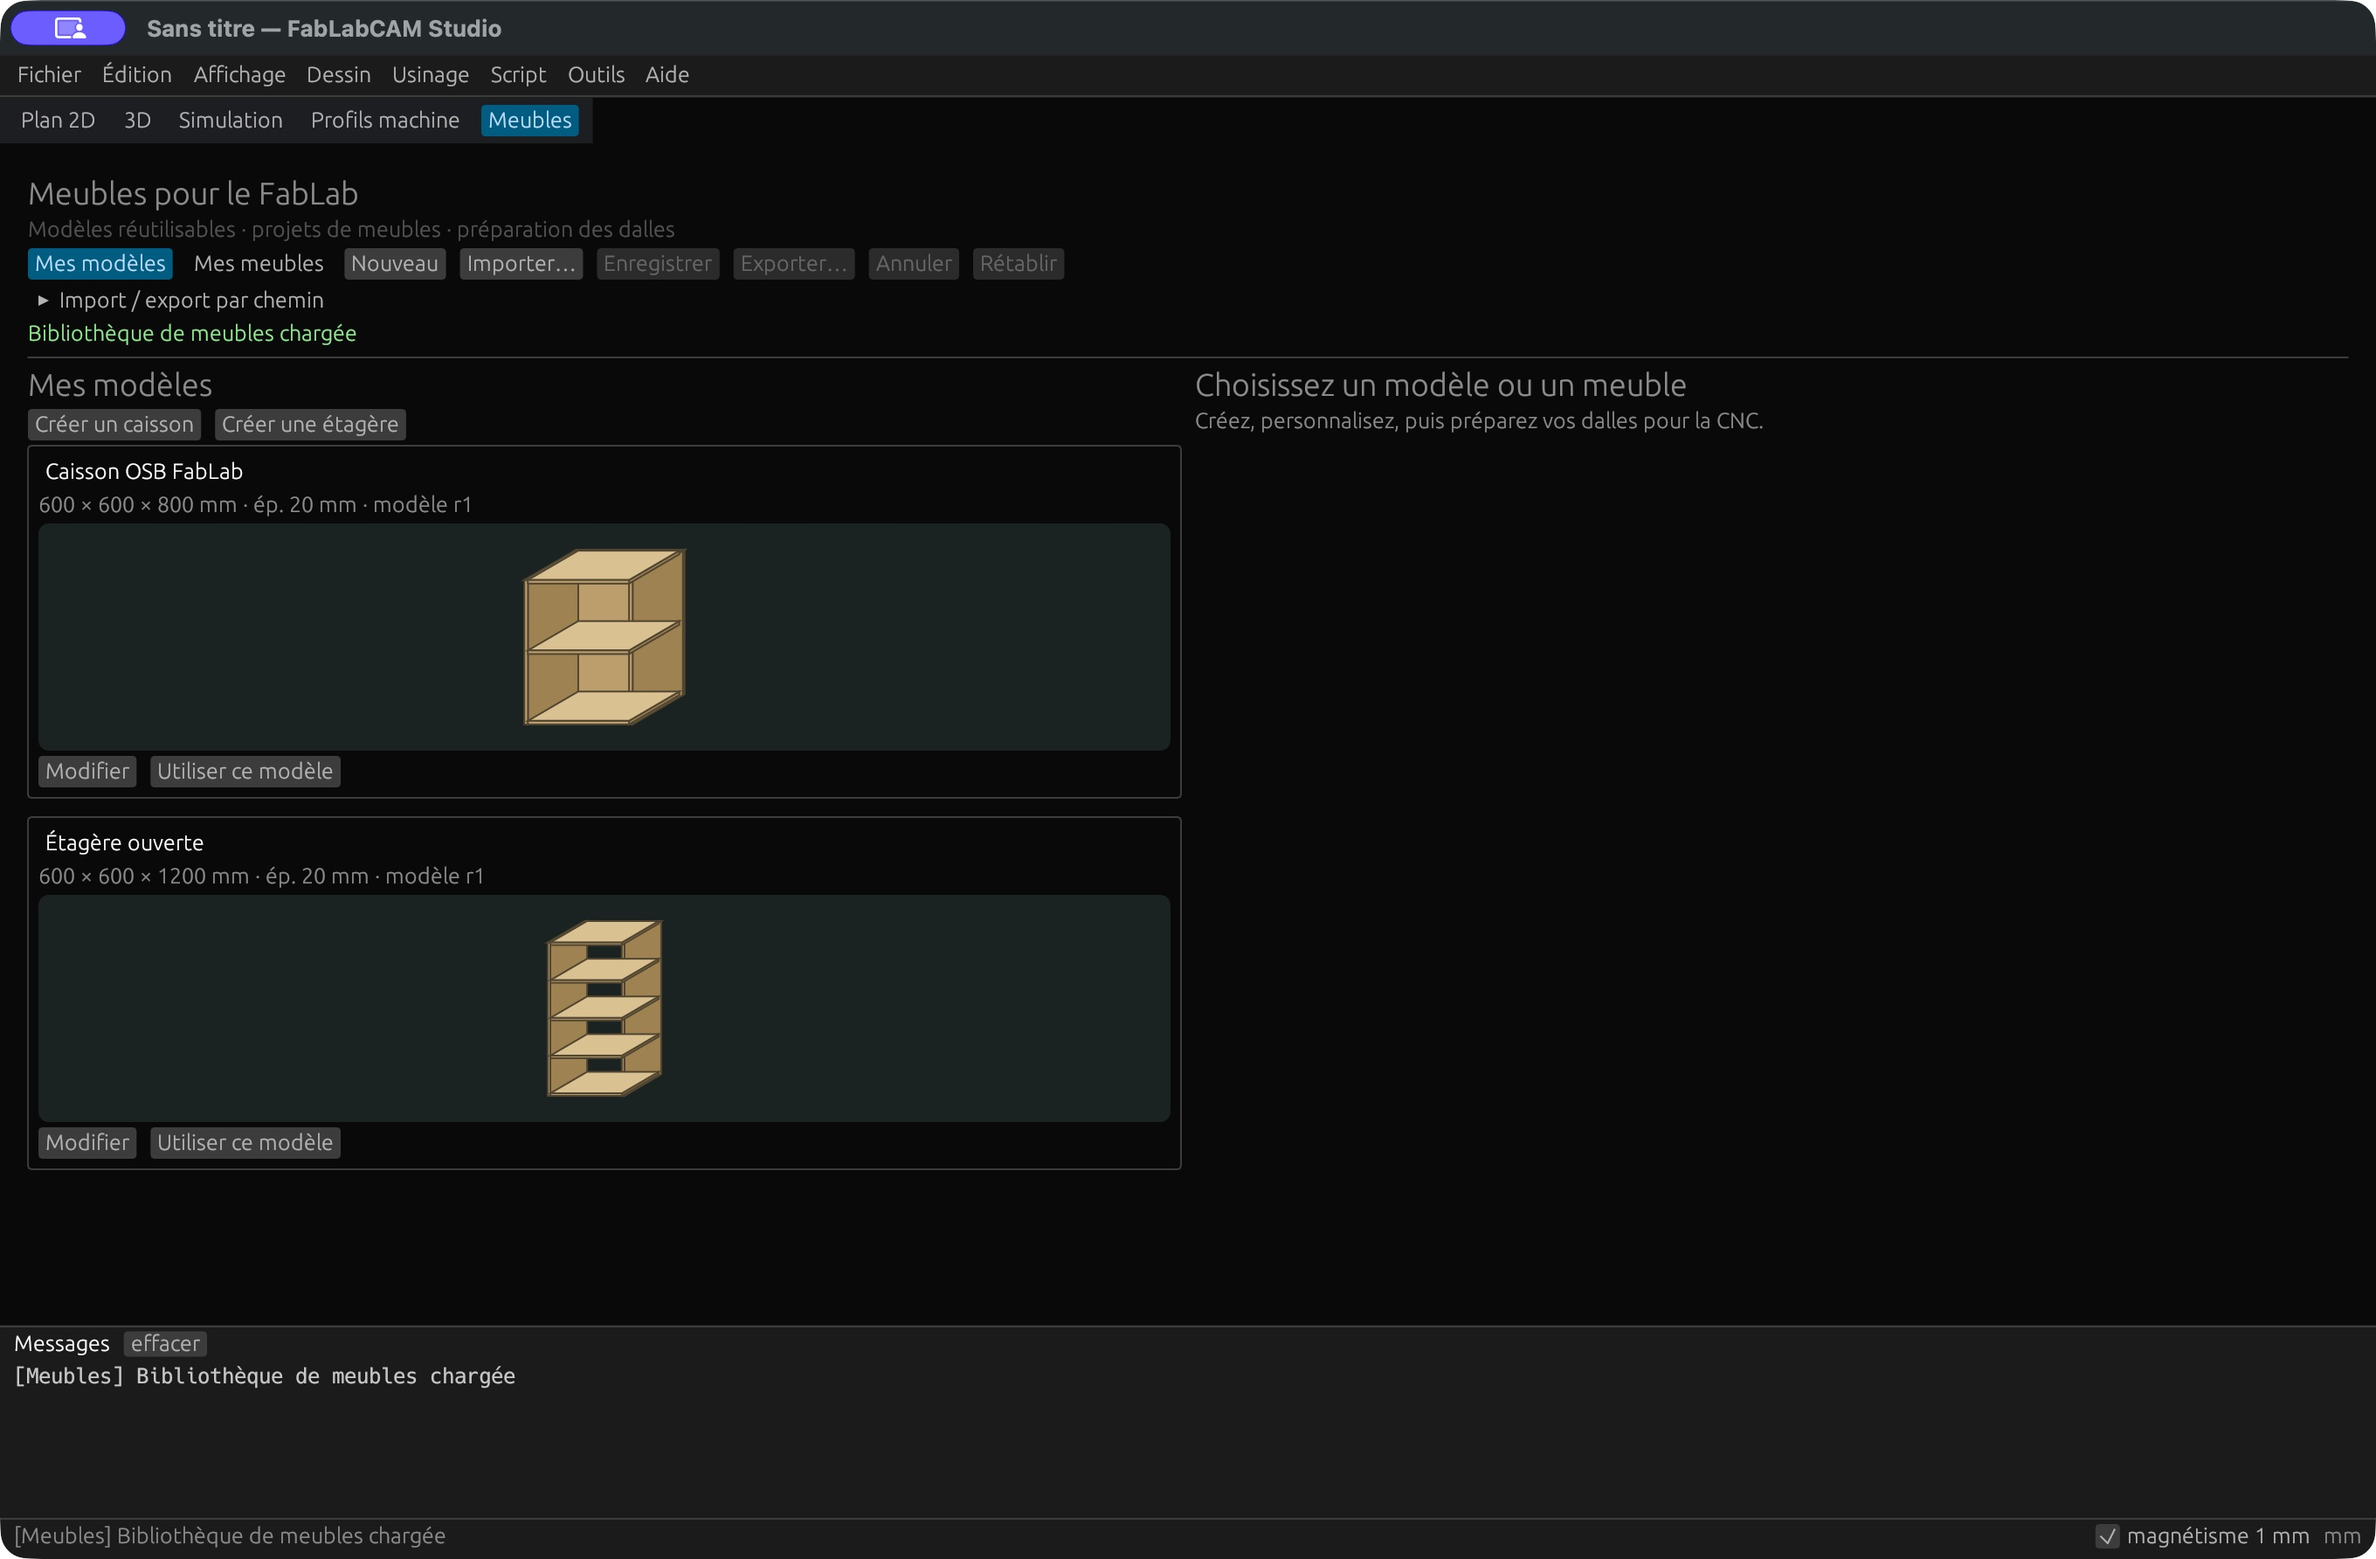
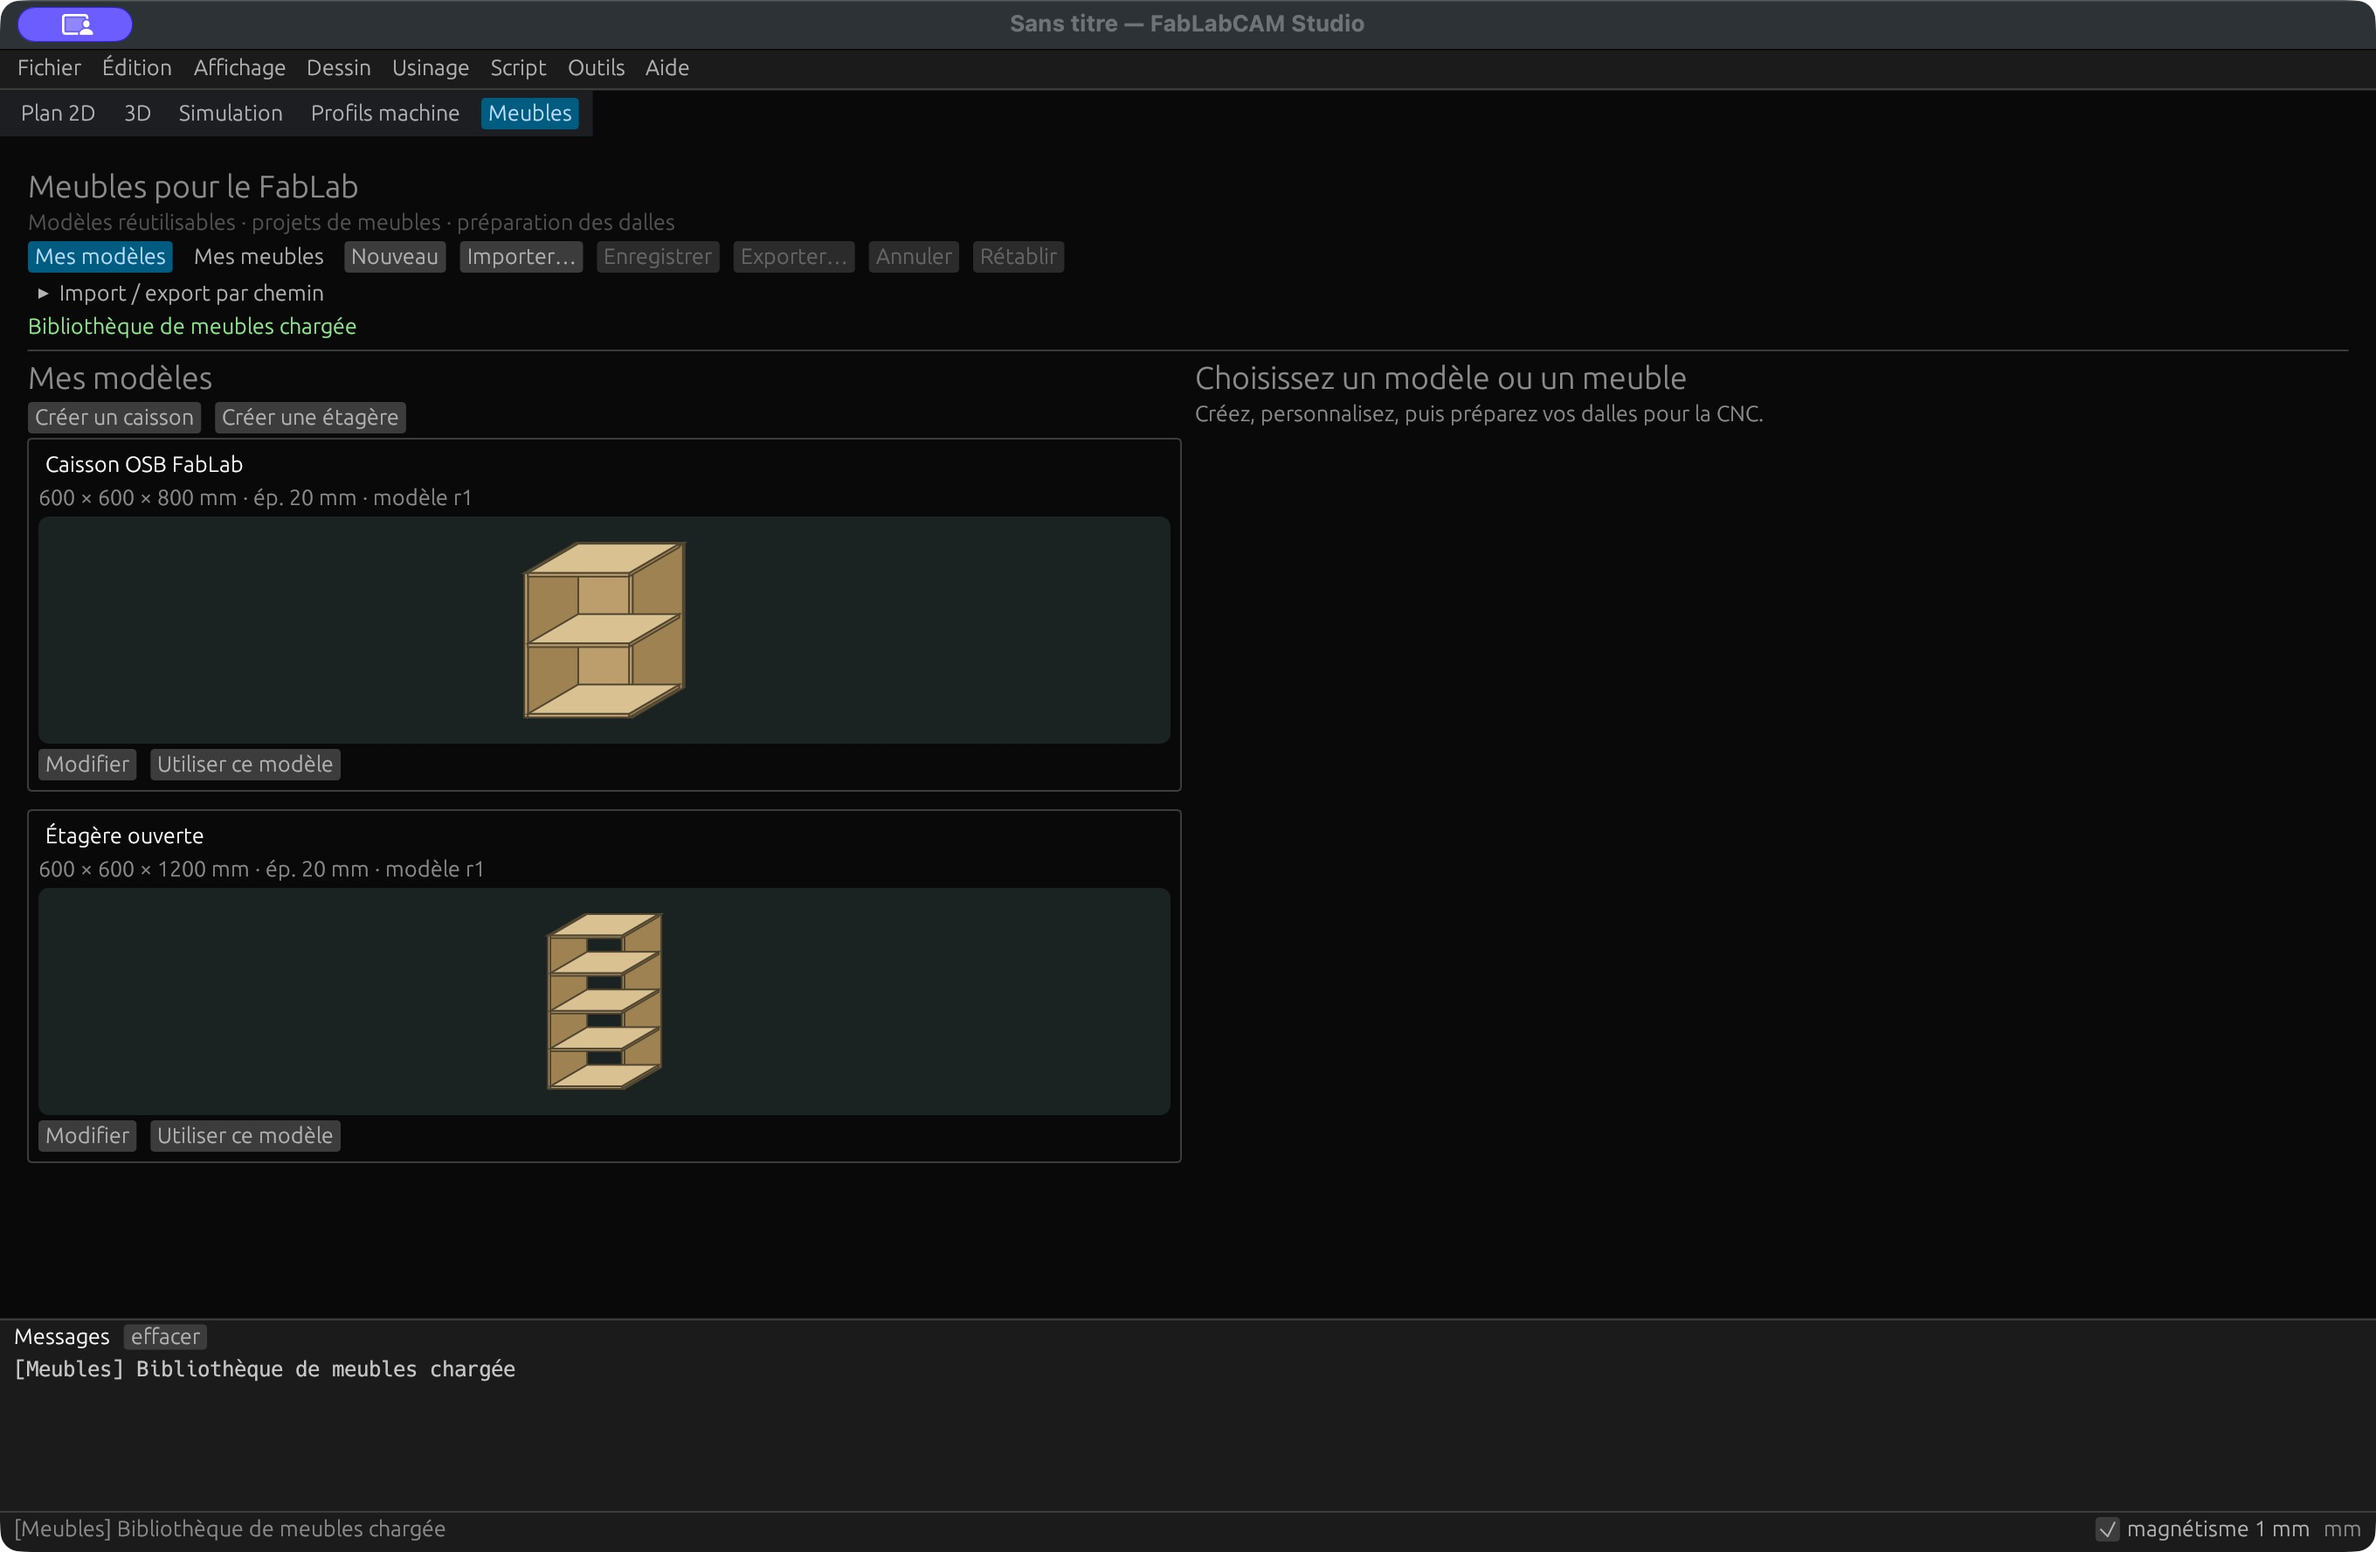
docs: refresh furniture screenshots from published DMG

diff --git a/docs/guide/meubles.md b/docs/guide/meubles.md
@@ -173,10 +173,11 @@ périmètre. Vis, avant-trous, ancrages, stabilité et charges admissibles ne so
 pas dimensionnés. Les projets natifs conservent les noms Unicode ; la notice
 PDF utilise des libellés fixes en français et des repères.
 
-Les captures 35 à 41 proviennent du build de développement du Studio **0.5.0
-sur macOS Apple Silicon**, avec un exemple synthétique. Les sources d'interface
-sont identiques à celles du tag livré. La CLI installée depuis le DMG final
-reproduit les quinze fichiers du dossier d'exemple octet pour octet. Les dialogues
-système peuvent différer selon l'OS.
+Les captures 35 à 41 proviennent du Studio **0.5.0 installé depuis le DMG
+macOS Apple Silicon publié**, avec un exemple synthétique. Le parcours graphique
+et la persistance après réouverture ont été vérifiés le 4 novembre 2026 dans une
+bibliothèque de test isolée. La CLI installée depuis ce DMG reproduit les quinze
+fichiers du dossier d'exemple octet pour octet. Les dialogues système peuvent
+différer selon l'OS.
 [Issue #14](https://github.com/FabLabCAM/core/issues/14) ·
 [Release 0.5.0](https://github.com/FabLabCAM/core/releases/tag/v0.5.0).

diff --git a/docs/reference/fonctionnalites.md b/docs/reference/fonctionnalites.md
@@ -54,8 +54,8 @@ Les captures 01 à 23 sont réalisées sur macOS Apple Silicon avec la version
 plateforme, avec des profils fictifs publics ; la capture 32 est recadrée sur le
 dialogue de doublon. Les captures 33 et 34 montrent le modèle ID CNC PRO dans
 le Studio 0.4.1 sur macOS Apple Silicon. Les captures 35 à 41 montrent le module
-Meubles du build de développement 0.5.0 sur la même plateforme (sources d’interface
-identiques au tag livré), avec le caisson synthétique
+Meubles du Studio 0.5.0 installé depuis le DMG publié sur la même plateforme,
+avec le caisson synthétique
 du [guide meubles](../guide/meubles.md). Le projet de base, son script et ses exports sont disponibles dans le
 [tutoriel](../guide/premier-projet.md). Les vues de ponts, de brut et de simulation
 illustrent des modifications décrites dans le tutoriel. Les images sont des

diff --git a/docs/reference/versions.md b/docs/reference/versions.md
@@ -28,6 +28,11 @@ validés. Portes, tiroirs, assemblages usinés, quincaillerie et charges admissi
 restent hors périmètre V1.
 
 
+Validation complémentaire du 4 novembre 2026 : parcours graphique du DMG
+Apple Silicon, export ZIP depuis le Studio, import en copie, transfert en FAO et
+persistance après relance vérifiés ; les sept captures du guide proviennent du
+binaire publié. [Compte rendu](https://github.com/FabLabCAM/core/blob/main/docs/qa/0.5.0.md).
+
 ## 0.4.1 — ID CNC PRO par défaut
 
 [Release et installateurs](https://github.com/FabLabCAM/core/releases/tag/v0.4.1) · [Issue #9](https://github.com/FabLabCAM/core/issues/9)
